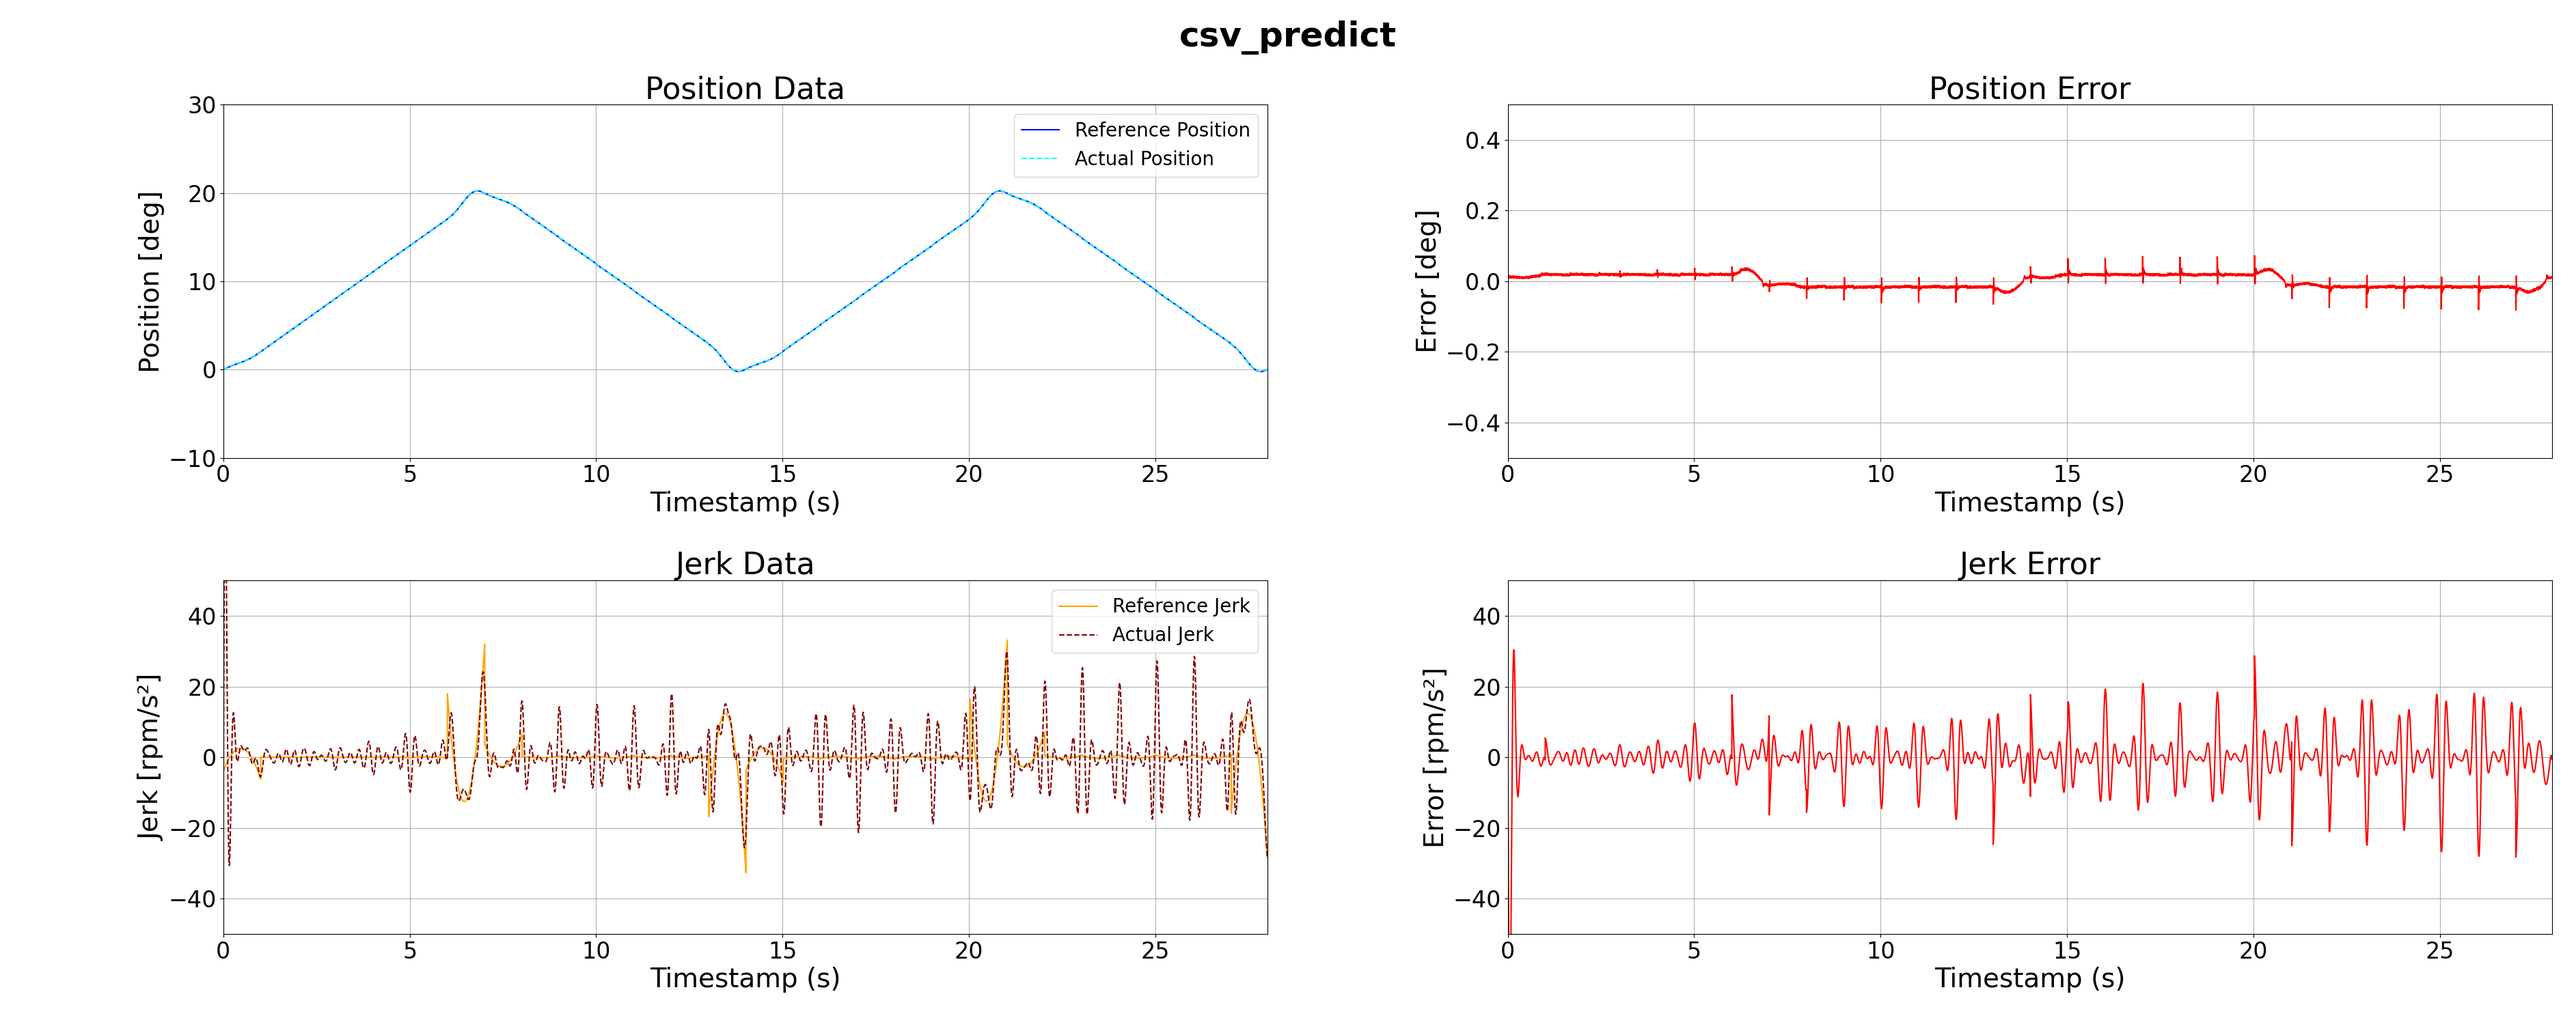
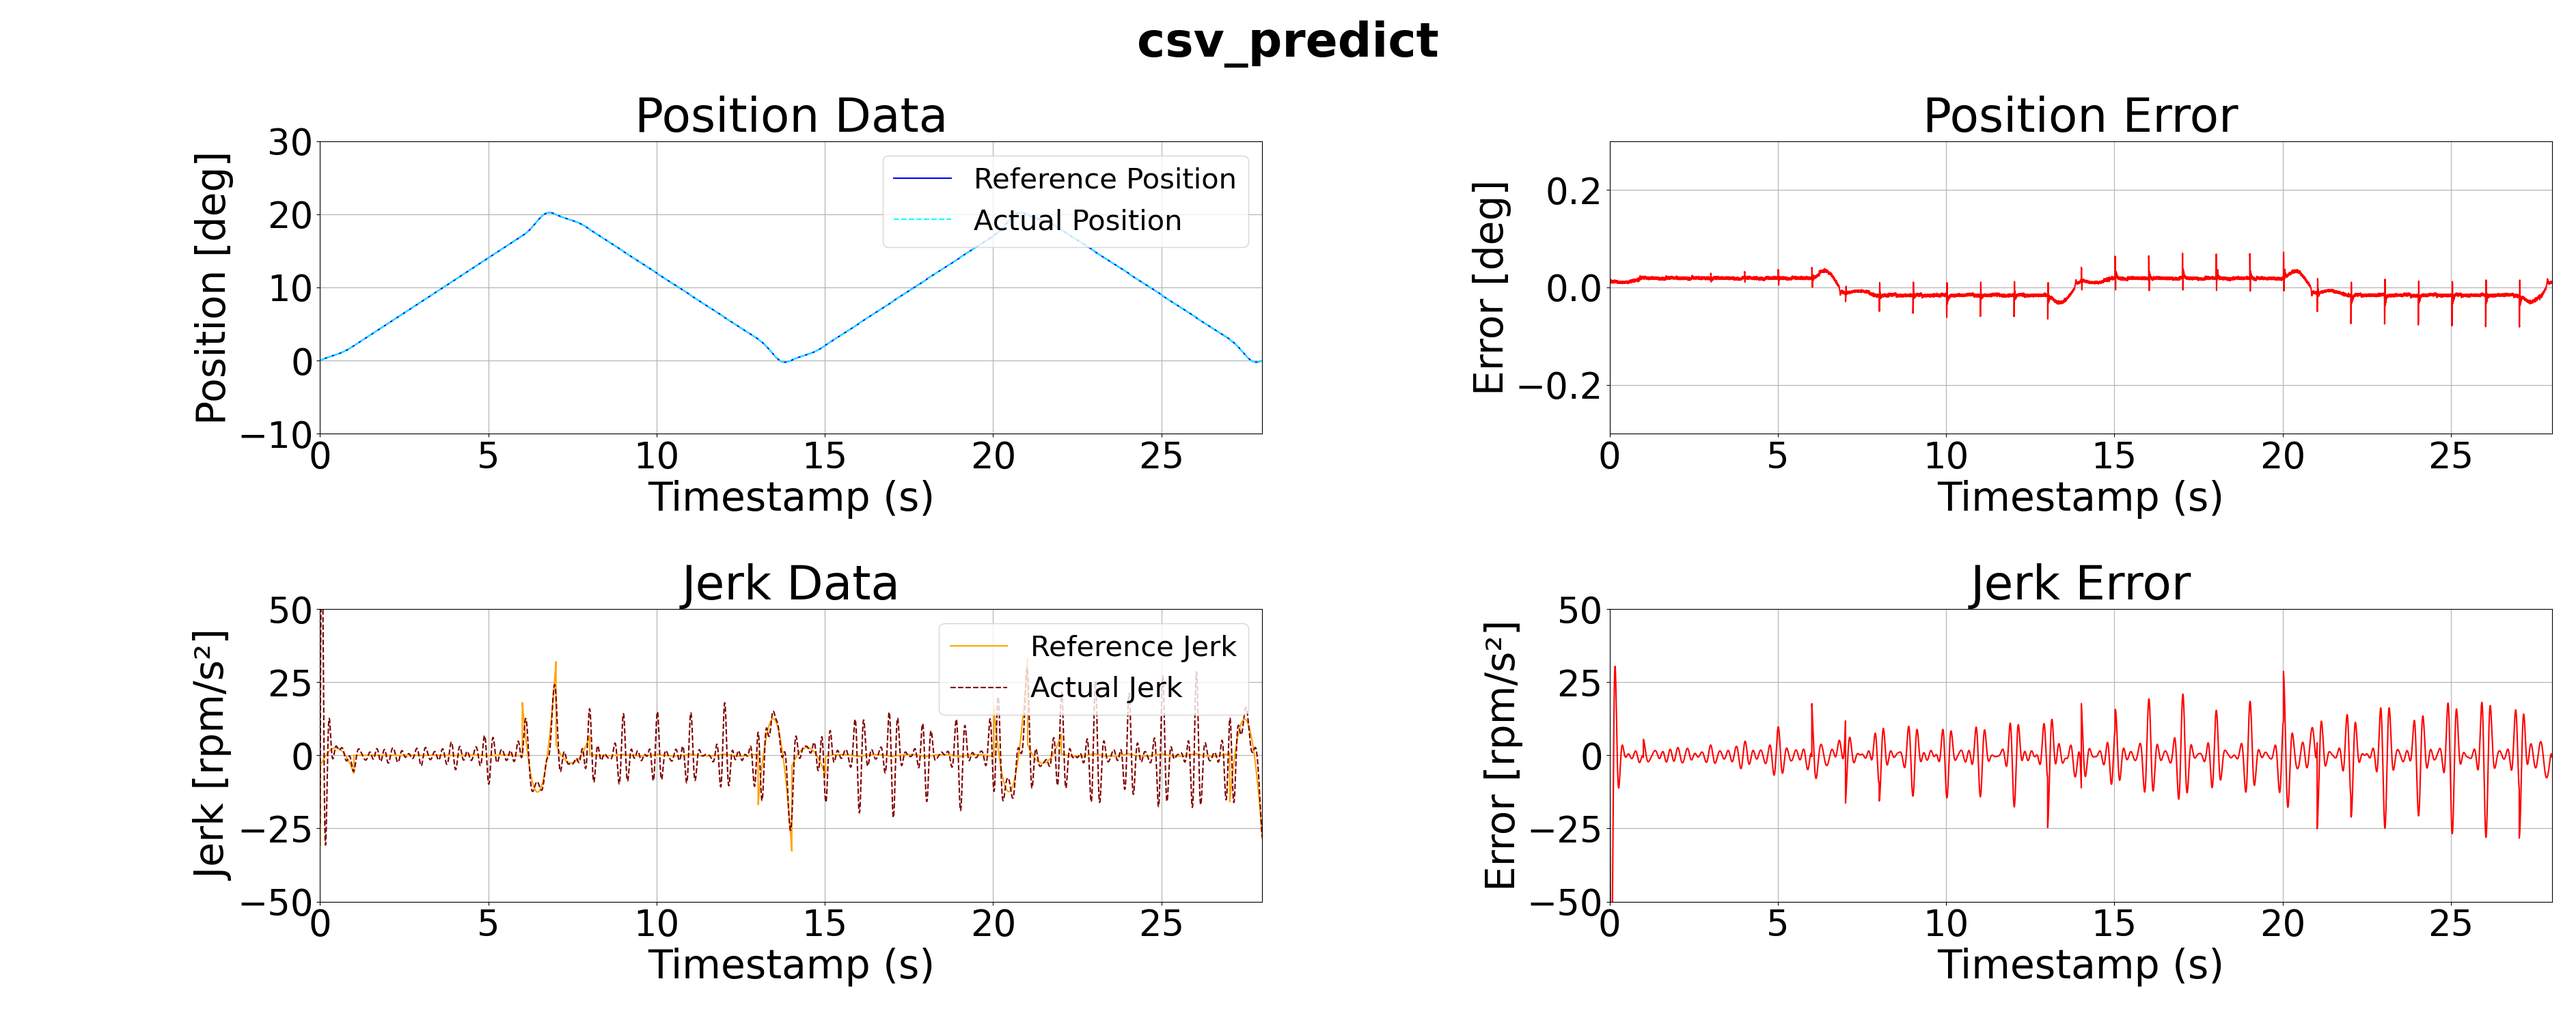
text size is adjusted

diff --git a/Controllers/logging/plot.py b/Controllers/logging/plot.py
@@ -2,20 +2,20 @@ import matplotlib.pyplot as plt
 import numpy as np
 
 # Load position and velocity data
-# position_data = np.loadtxt('csp_zero_vel/csp_zero_vel_pos03.txt')
-# velocity_data = np.loadtxt('csp_zero_vel/csp_zero_vel_vel03.txt')
-# accel_data = np.loadtxt('csp_zero_vel/csp_zero_vel_acc03.txt')
-# jerk_data = np.loadtxt('csp_zero_vel/csp_zero_vel_jerk03.txt')
+position_data = np.loadtxt('csp_zero_vel/csp_zero_vel_pos03.txt')
+velocity_data = np.loadtxt('csp_zero_vel/csp_zero_vel_vel03.txt')
+accel_data = np.loadtxt('csp_zero_vel/csp_zero_vel_acc03.txt')
+jerk_data = np.loadtxt('csp_zero_vel/csp_zero_vel_jerk03.txt')
 
 # position_data = np.loadtxt('csv_prev_vel/csv_prev_vel_pos02.txt')
 # velocity_data = np.loadtxt('csv_prev_vel/csv_prev_vel_vel02.txt')
 # accel_data = np.loadtxt('csv_prev_vel/csv_prev_vel_acc02.txt')
 # jerk_data = np.loadtxt('csv_prev_vel/csv_prev_vel_jerk02.txt')
 
-position_data = np.loadtxt('csp_predict/csp_predict_pos02.txt')
-velocity_data = np.loadtxt('csp_predict/csp_predict_vel02.txt')
-accel_data = np.loadtxt('csp_predict/csp_predict_acc02.txt')
-jerk_data = np.loadtxt('csp_predict/csp_predict_jerk02.txt')
+# position_data = np.loadtxt('csp_predict/csp_predict_pos02.txt')
+# velocity_data = np.loadtxt('csp_predict/csp_predict_vel02.txt')
+# accel_data = np.loadtxt('csp_predict/csp_predict_acc02.txt')
+# jerk_data = np.loadtxt('csp_predict/csp_predict_jerk02.txt')
 
 # Extract columns from position data
 timestamp_pos = position_data[:, 0]
@@ -59,57 +59,57 @@ print("Reference Jerk data: RMS =", reference_jerk_rms, ", Max =", reference_jer
 plt.figure(figsize=(16, 12))
 
 # title
-# plt.suptitle('csp_zero_vel', fontsize=36, fontweight='bold')
+plt.suptitle('csp_zero_vel', fontsize=36, fontweight='bold')
 # plt.suptitle('csv_prev_vel', fontsize=36, fontweight='bold')
-plt.suptitle('csv_predict', fontsize=36, fontweight='bold')
+# plt.suptitle('csv_predict', fontsize=50, fontweight='bold')
 
 # Plot position data
 plt.subplot(2, 2, 1)
 plt.plot(timestamp_pos, reference_position, label='Reference Position', linestyle='-', color='blue')
 plt.plot(timestamp_pos, actual_position, label='Actual Position', linestyle='--', color='cyan')
-plt.title('Position Data', fontsize=32)  # Title font size
-plt.xlabel('Timestamp (s)', fontsize=28)  # X-axis label font size
-plt.ylabel('Position [deg]', fontsize=28)  # Y-axis label font size
+plt.title('Position Data', fontsize=50)  # Title font size
+plt.xlabel('Timestamp (s)', fontsize=42)  # X-axis label font size
+plt.ylabel('Position [deg]', fontsize=42)  # Y-axis label font size
 plt.xlim(0, 28)
 plt.ylim(-10, 30)
-plt.legend(fontsize=20, loc='upper right')  # Legend font size
+plt.legend(fontsize=30, loc='upper right')  # Legend font size
 plt.grid(True)
-plt.tick_params(axis='both', which='major', labelsize=24)  # Tick label font size
+plt.tick_params(axis='both', which='major', labelsize=38)  # Tick label font size
 
 # Plot position error
 plt.subplot(2, 2, 2)
 plt.plot(timestamp_pos, position_error, label='Position Error', linestyle='-', color='red')
-plt.title('Position Error', fontsize=32)
-plt.xlabel('Timestamp (s)', fontsize=28)
-plt.ylabel('Error [deg]', fontsize=28)
+plt.title('Position Error', fontsize=50)
+plt.xlabel('Timestamp (s)', fontsize=42)
+plt.ylabel('Error [deg]', fontsize=42)
 plt.xlim(0, 28)
-plt.ylim(-0.5, 0.5)
+plt.ylim(-0.3, 0.3)
 plt.grid(True)
-plt.tick_params(axis='both', which='major', labelsize=24)
+plt.tick_params(axis='both', which='major', labelsize=38)
 
 # Plot jerk data
 plt.subplot(2, 2, 3)
 plt.plot(timestamp_jerk, reference_jerk, label='Reference Jerk', linestyle='-', color='orange')
 plt.plot(timestamp_jerk, actual_jerk, label='Actual Jerk', linestyle='--', color='maroon')
-plt.title('Jerk Data', fontsize=32)
-plt.xlabel('Timestamp (s)', fontsize=28)
-plt.ylabel('Jerk [rpm/s²]', fontsize=28)
+plt.title('Jerk Data', fontsize=50)
+plt.xlabel('Timestamp (s)', fontsize=42)
+plt.ylabel('Jerk [rpm/s²]', fontsize=42)
 plt.xlim(0, 28)
 plt.ylim(-50, 50)
-plt.legend(fontsize=20, loc='upper right')  # Legend font size
+plt.legend(fontsize=30, loc='upper right')  # Legend font size
 plt.grid(True)
-plt.tick_params(axis='both', which='major', labelsize=24)
+plt.tick_params(axis='both', which='major', labelsize=38)
 
 # Plot jerk error
 plt.subplot(2, 2, 4)
 plt.plot(timestamp_jerk, jerk_error, label='Jerk Error', linestyle='-', color='red')
-plt.title('Jerk Error', fontsize=32)
-plt.xlabel('Timestamp (s)', fontsize=28)
-plt.ylabel('Error [rpm/s²]', fontsize=28)
+plt.title('Jerk Error', fontsize=50)
+plt.xlabel('Timestamp (s)', fontsize=42)
+plt.ylabel('Error [rpm/s²]', fontsize=42)
 plt.xlim(0, 28)
 plt.ylim(-50, 50)
 plt.grid(True)
-plt.tick_params(axis='both', which='major', labelsize=24)
+plt.tick_params(axis='both', which='major', labelsize=38)
 
 # # Plot position data
 # plt.subplot(4, 2, 1)
